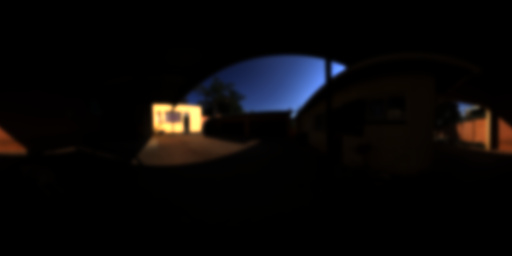
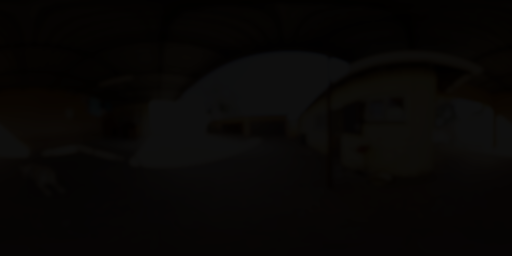
Reflection environments: exposure-normalised to the reference level
Each environment is tone-mapped at conversion, value = x/(1+x) of
exposure * linear per channel, with the per-image exposure solved so the
area-weighted mean Rec.709 luma equals 0.5124 (the reference level,
measured from the reference reflection cube's stored texels). MatCaps are
untouched; one decode path (linear scale 16) for both kinds. MANIFEST
gains an exposure column; the unit gate pins each env's level within the
16-bit rounding bound. Cell (e) re-derived its env from the new texels;
cell (h) holds the default scene's cube to shaded x env(R).

Changed region(s): [[0.25, 0.1875, 0.6875, 0.6562], [0.875, 0.375, 1.0, 0.625], [0.0, 0.5, 0.0625, 0.625]]

diff --git a/tools/convert_shading_images.py b/tools/convert_shading_images.py
@@ -16,9 +16,23 @@ Steps, identical for every run:
   * env: INTER_AREA 1024x512 -> 512x256, then a Gaussian prefilter sigma = 2 px
     (kernel radius 3 sigma) that WRAPS horizontally (the equirect seam is
     continuous) and reflects vertically;
-  * every file: stored = round(clamp(linear / 16, 0, 1) * 65535) as uint16 RGB,
+  * env only, EXPOSURE NORMALISATION: value = reinhard(exposure * linear) per
+    channel, reinhard(x) = x / (1 + x), with the per-image `exposure` solved by
+    bisection (log space, 200 steps, deterministic) so that the area-weighted
+    (sin(theta) per row) mean Rec.709 luma of the tone-mapped image equals
+    ENV_TARGET_MEAN_LUMA — the reference level, measured as the area-weighted
+    mean luma of the reference reflection cube's 8-bit texels used directly
+    (the reference multiplies its stored values, no decode; so does our arm,
+    which writes lit x env with no gamma). Reinhard: monotone (so the solve
+    has one root), parameter-free (nothing tuned), strictly below 1 (no
+    channel clips at the 16-bit ceiling), near-identity in the darks and
+    desaturating the hot spots toward white the way an LDR exposure does;
+    MatCaps are not touched (their two layers ARE the lighting);
+  * every file: stored = round(clamp(value / 16, 0, 1) * 65535) as uint16 RGB,
     PNG compression 9. The one linear scale (16) is `kShadingImageLinearScale`
-    in `source/viewport_env.d`; the decoder multiplies it back.
+    in `source/viewport_env.d`; the decoder multiplies it back — one decode
+    path for both kinds (a normalised env simply occupies [0, 1/16) of the
+    range: 4096 levels across [0, 1], far below one 8-bit display step).
 
 `MANIFEST.tsv` (written beside the outputs) ties each output to its input:
 input sha256, output file sha256, and the sha256 of the DECODED pixels (uint16
@@ -38,6 +52,14 @@ import numpy as np
 LINEAR_SCALE = 16.0
 ENV_SIZE = (512, 256)
 ENV_SIGMA = 2.0
+# The reference level (see the docstring): area-weighted mean luma of the
+# reference reflection cube's stored texels, measured 2026-10-03 -> 0.5124.
+# `viewport_env.kEnvTargetMeanLuma` is the same number.
+ENV_TARGET_MEAN_LUMA = 0.5124
+# Residual after the solve: only the 16-bit rounding, at most half a step per
+# channel = 0.5 * 16 / 65535 = 1.22e-4 (the luma weights sum to 1).
+ENV_LEVEL_TOLERANCE = 1.25e-4
+LUMA = np.array([0.2126, 0.7152, 0.0722])   # Rec.709, applied to RGB
 LICENCE = "CC0-1.0"
 
 ENV_NAMES = ["studio_small_09", "kloofendal_48d_partly_cloudy_puresky", "courtyard"]
@@ -45,7 +67,7 @@ MATCAP_NAMES = ["basic_grey", "basic_side", "clay_studio", "ceramic_lightbulb",
                 "hard_surface_grey", "metal_carpaint", "toon_light", "check_rim_light"]
 
 HEADER = ["output", "input", "input_sha256", "output_sha256", "pixels_sha256",
-          "width", "height", "linear_scale", "prefilter_sigma", "licence"]
+          "width", "height", "linear_scale", "prefilter_sigma", "exposure", "licence"]
 
 
 def sha256_file(path):
@@ -82,14 +104,48 @@ def env_prefilter(img):
     return blurred[:, r:-r]
 
 
+def reinhard(x):
+    return x / (1.0 + x)
+
+
+def env_mean_luma(rgb):
+    """Area-weighted mean luma of an equirect image (rows weighted sin(theta)
+    at the row centre). `rgb` is H x W x 3 in R, G, B order."""
+    h = rgb.shape[0]
+    w = np.sin((np.arange(h) + 0.5) / h * np.pi)
+    row = (rgb.astype(np.float64) @ LUMA).mean(axis=1)
+    return float(np.sum(row * w) / np.sum(w))
+
+
+def solve_exposure(rgb):
+    """The exposure s with env_mean_luma(reinhard(s * rgb)) == the target."""
+    lo, hi = np.log(1e-4), np.log(1e4)
+    for _ in range(200):
+        mid = 0.5 * (lo + hi)
+        if env_mean_luma(reinhard(np.exp(mid) * rgb)) < ENV_TARGET_MEAN_LUMA:
+            lo = mid
+        else:
+            hi = mid
+    return float(np.exp(0.5 * (lo + hi)))
+
+
 def convert(src_path, is_env):
+    """(uint16 BGR image, exposure); exposure 1 for a MatCap layer."""
     img = cv2.imread(src_path, cv2.IMREAD_ANYDEPTH | cv2.IMREAD_COLOR)   # BGR float32
     if img is None:
         raise SystemExit(f"cannot read {src_path}")
+    exposure = 1.0
     if is_env:
         img = cv2.resize(img, ENV_SIZE, interpolation=cv2.INTER_AREA)
-        img = env_prefilter(img)
-    return np.round(np.clip(img / LINEAR_SCALE, 0.0, 1.0) * 65535.0).astype(np.uint16)
+        img = env_prefilter(img).astype(np.float64)
+        exposure = solve_exposure(img[:, :, ::-1])
+        img = reinhard(exposure * img)
+    q = np.round(np.clip(img / LINEAR_SCALE, 0.0, 1.0) * 65535.0).astype(np.uint16)
+    if is_env:
+        got = env_mean_luma(q[:, :, ::-1] / 65535.0 * LINEAR_SCALE)
+        if abs(got - ENV_TARGET_MEAN_LUMA) > ENV_LEVEL_TOLERANCE:
+            raise SystemExit(f"{src_path}: stored mean luma {got:.6f}, target {ENV_TARGET_MEAN_LUMA}")
+    return q, exposure
 
 
 def pixels_sha(bgr16):
@@ -132,13 +188,13 @@ def main():
     rows = []
     total = 0
     for out_name, rel, is_env in jobs():
-        q = convert(os.path.join(a.src, rel), is_env)
+        q, exposure = convert(os.path.join(a.src, rel), is_env)
         dst = os.path.join(a.out, out_name)
         cv2.imwrite(dst, q, [cv2.IMWRITE_PNG_COMPRESSION, 9])
         total += os.path.getsize(dst)
         rows.append([out_name, os.path.basename(rel), sums[rel], sha256_file(dst), pixels_sha(q),
                      str(q.shape[1]), str(q.shape[0]), f"{LINEAR_SCALE:g}",
-                     f"{ENV_SIGMA:g}" if is_env else "0", LICENCE])
+                     f"{ENV_SIGMA:g}" if is_env else "0", f"{exposure:.6f}", LICENCE])
 
     if a.check:
         ref = read_manifest(a.manifest)

diff --git a/assets/shading/SOURCES.md b/assets/shading/SOURCES.md
@@ -6,9 +6,11 @@ eight two-layer material-capture (MatCap) spheres. The binary embeds them as str
 (`source/viewport_env.d`).
 
 All files are 16-bit RGB PNGs converted offline from the downloaded Radiance `.hdr` originals by
-`tools/convert_shading_images.py` (stored value = `round(clamp(linear / 16, 0, 1) * 65535)`; the
-environments are also downsampled 1024x512 -> 512x256 and prefiltered with a Gaussian, sigma = 2 px,
-wrapping horizontally). `MANIFEST.tsv` ties every output to its original by sha256 (input file, output
+`tools/convert_shading_images.py` (stored value = `round(clamp(value / 16, 0, 1) * 65535)`; the
+environments are also downsampled 1024x512 -> 512x256, prefiltered with a Gaussian, sigma = 2 px,
+wrapping horizontally, and exposure-normalised: value = `x / (1 + x)` of `exposure * linear` per
+channel, the per-image exposure (`MANIFEST.tsv` column `exposure`) solved so that the area-weighted
+mean luma equals the reference level 0.5124). `MANIFEST.tsv` ties every output to its original by sha256 (input file, output
 file, decoded pixels). Conversion command:
 
     python3 tools/convert_shading_images.py --in <originals> --out assets/shading
